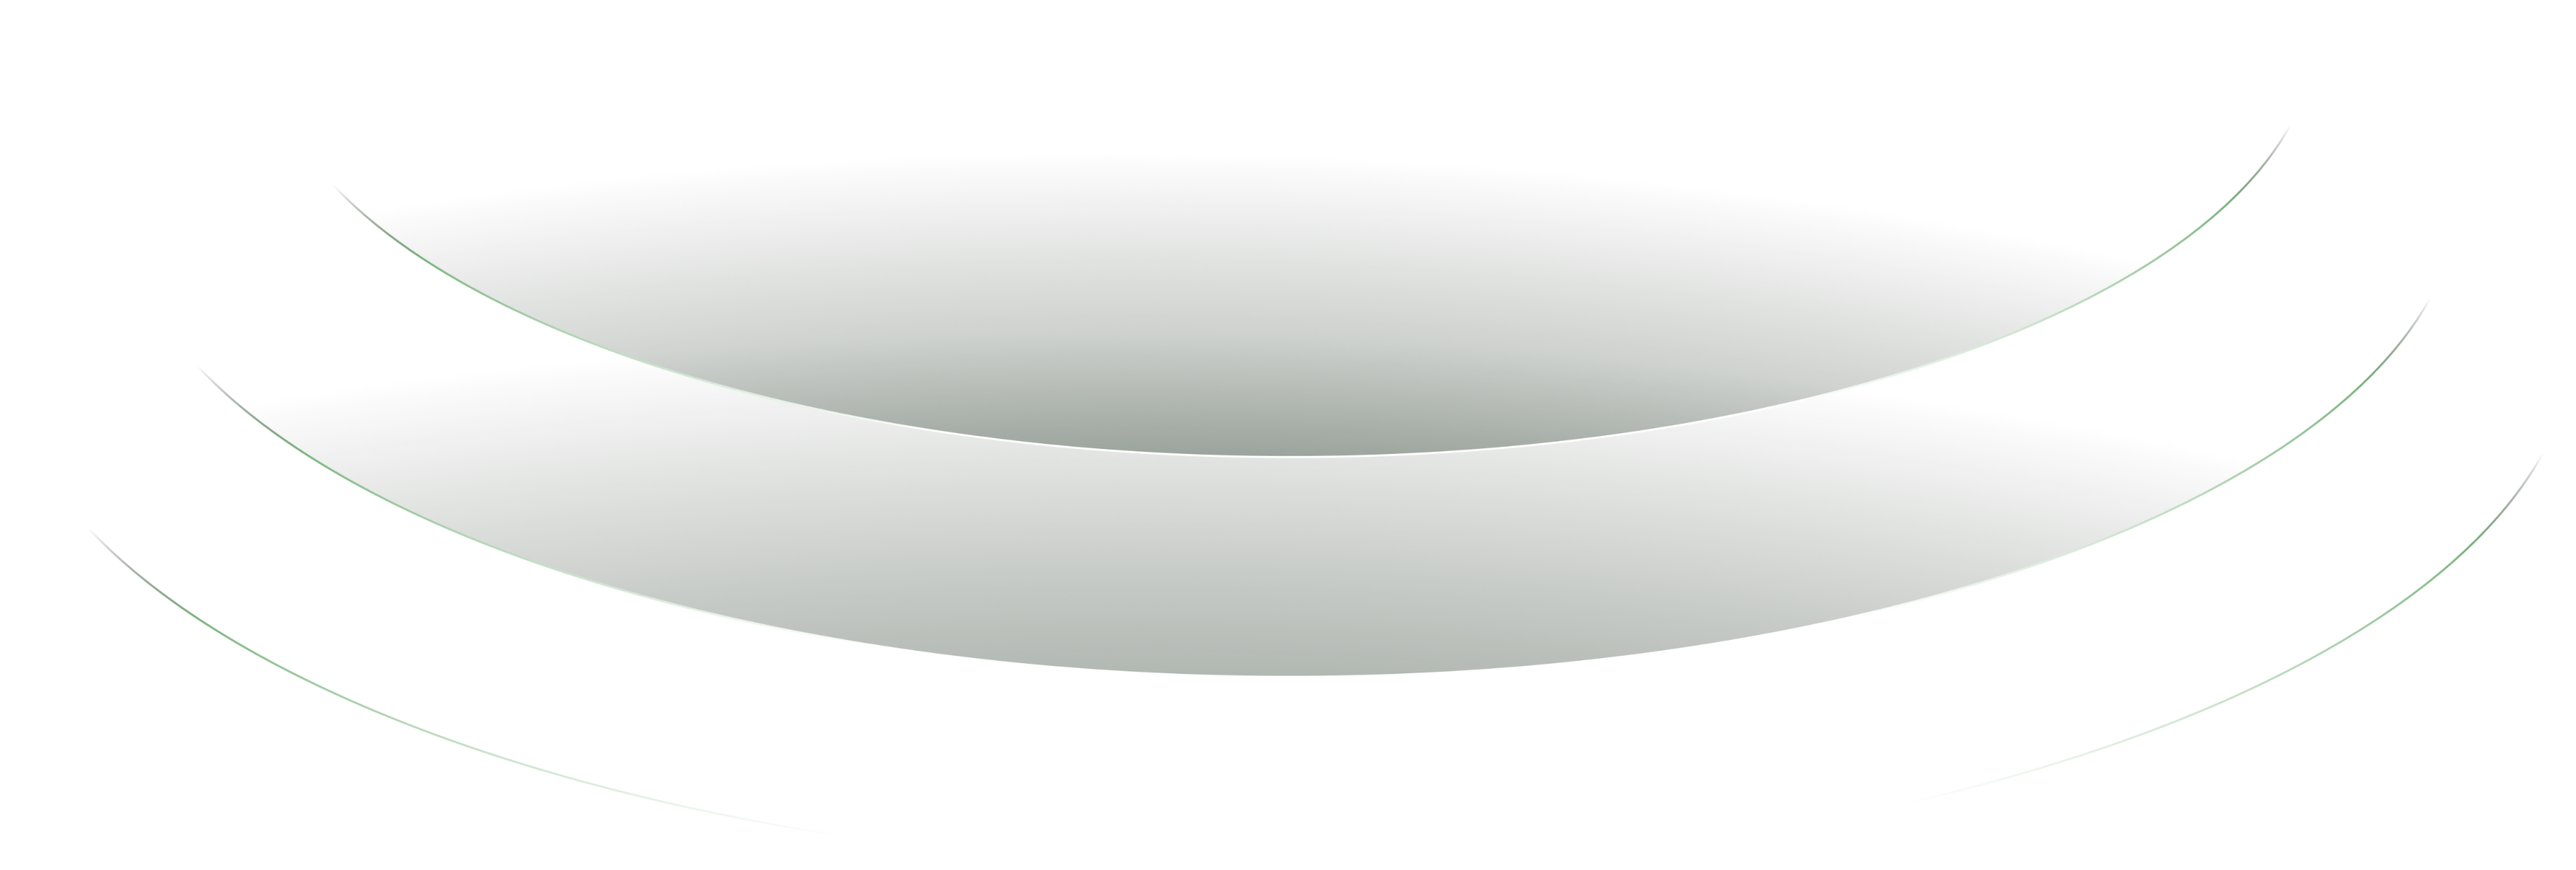
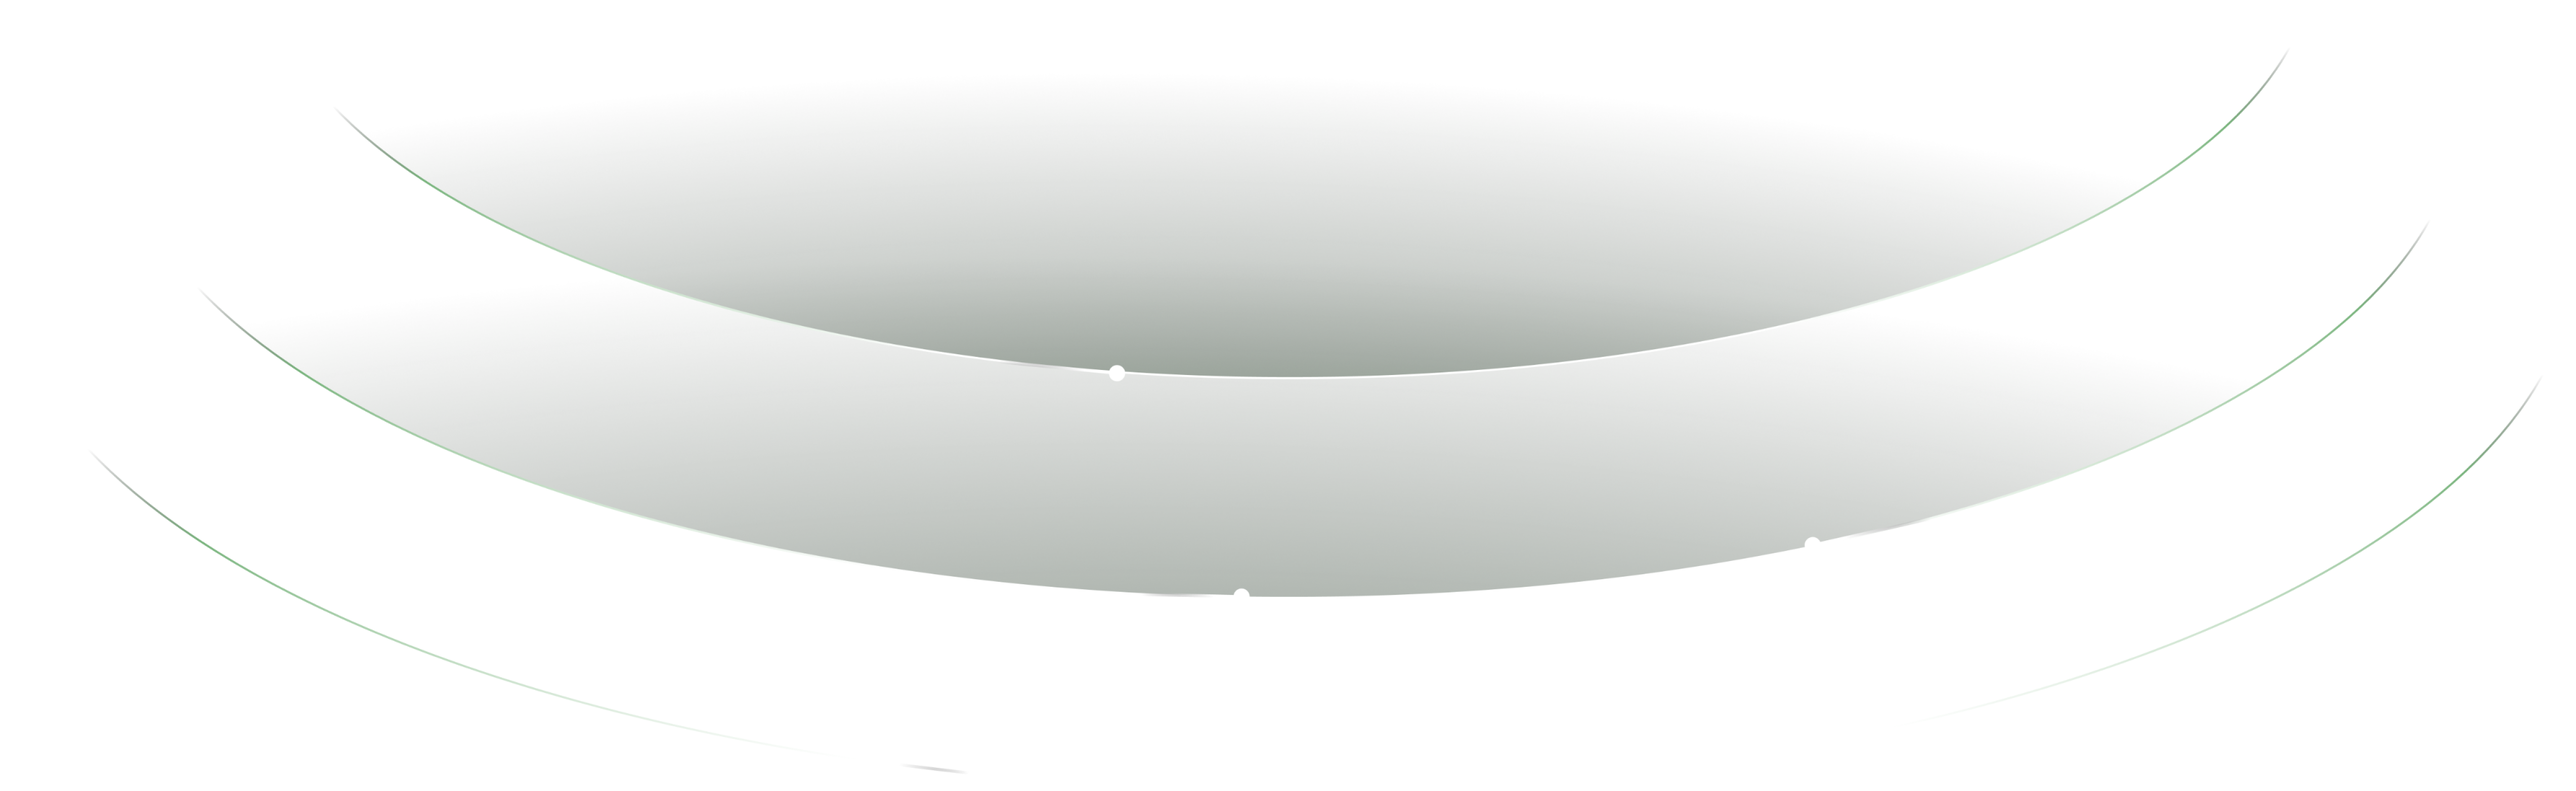
checking errors solved

diff --git a/src/components/Testimonial.jsx b/src/components/Testimonial.jsx
@@ -1,10 +1,10 @@
 import React from "react";
-import { DoubleComma } from "./common/Icons";
+import { DoubleComma, GreenCircle } from "./common/Icons";
 import Image from "next/image";
 
 const Testimonial = () => {
   return (
-    <div className="bg-[url('/assets/images/home-page/testimonial/background.png')] bg-no-repeat bg-cover lg:mt-[120px] sm:mt-24 mt-20">
+    <div className="bg-[url('/assets/images/home-page/testimonial/background.png')] bg-no-repeat bg-cover lg:mt-[120px] sm:mt-24 mt-20 relative">
       <div className="lg:pt-[130px] md:pt-[100px] pt-20">
         <div className="flex justify-center">
           <span className="text-center bg-silvertree text-white border-[1px] border-white px-[30px] py-[10px] sm:text-base text-sm font-semibold font-OpenSans leading-[150%] rounded-[51px]">
@@ -42,49 +42,49 @@ const Testimonial = () => {
             alt="images circles"
           />
           <Image
-            className="absolute animation_ping1 animate-ping md:w-[50px] w-[35px] md:h-[50px] h-[35px] lg:top-[26%] top-[21%] left-[24%]"
+            className="absolute animation_ping1 animate-ping md:w-[50px] w-[35px] md:h-[50px] h-[35px] lg:top-[22%] top-[21%] left-[24%]"
             width={50}
             height={50}
             src="/assets/images/home-page/testimonial/first_men.png"
             alt="first men image circles"
           />
           <Image
-            className="absolute animation_ping2 animate-ping md:w-[61px] w-[35px] md:h-[61px] h-[35px] lg:top-[28%] top-[21%] right-[26%]"
+            className="absolute animation_ping2 animate-ping md:w-[61px] w-[35px] md:h-[61px] h-[35px] lg:top-[24%] top-[21%] right-[26%]"
             width={61}
             height={61}
             src="/assets/images/home-page/testimonial/third_men.png"
             alt="first men image circles"
           />
           <Image
-            className="absolute animation_ping3 animate-ping md:w-[50px] w-[35px] md:h-[50px] h-[35px] lg:top-[35%] top-[29%] right-[10%]"
+            className="absolute animation_ping3 animate-ping md:w-[50px] w-[35px] md:h-[50px] h-[35px] lg:top-[31%] top-[29%] right-[10%]"
             width={50}
             height={50}
             src="/assets/images/home-page/testimonial/first_men.png"
             alt="first men image circles"
           />
           <Image
-            className="absolute animation_ping4 animate-ping md:w-[50px] w-[35px] md:h-[50px] h-[35px] lg:top-[53%] top-[43%] right-[44%]"
+            className="absolute animation_ping4 animate-ping md:w-[50px] w-[35px] md:h-[50px] h-[35px] lg:top-[49%] top-[43%] right-[44%]"
             width={50}
             height={50}
             src="/assets/images/home-page/testimonial/third_men.png"
             alt="first men image circles"
           />
           <Image
-            className="absolute animation_ping5 animate-ping md:w-[50px] w-[35px] md:h-[50px] h-[35px] lg:top-[34%] top-[28%] left-[10%]"
+            className="absolute animation_ping5 animate-ping md:w-[50px] w-[35px] md:h-[50px] h-[35px] lg:top-[30%] top-[28%] left-[10%]"
             width={50}
             height={50}
             src="/assets/images/home-page/testimonial/second_men.png"
             alt="first men image circles"
           />
           <Image
-            className="absolute animation_ping6 animate-ping md:w-[50px] w-[35px] md:h-[50px] h-[35px] lg:top-[57%] top-[48%] left-[15%]"
+            className="absolute animation_ping6 animate-ping md:w-[50px] w-[35px] md:h-[50px] h-[35px] lg:top-[53%] top-[48%] left-[15%]"
             width={50}
             height={50}
             src="/assets/images/home-page/testimonial/first_girl.png"
             alt="first men image circles"
           />
           <Image
-            className="absolute animation_ping7 animate-ping md:w-[50px] w-[35px] md:h-[50px] h-[35px] lg:top-[62%] top-[52%] right-[20%]"
+            className="absolute animation_ping7 animate-ping md:w-[50px] w-[35px] md:h-[50px] h-[35px] lg:top-[58%] top-[52%] right-[20%]"
             width={50}
             height={50}
             src="/assets/images/home-page/testimonial/first_girl.png"
@@ -101,6 +101,9 @@ const Testimonial = () => {
           />
         </div>
       </div>
+      <span className="absolute right-[47px] top-[100px] lg:block hidden">
+        <GreenCircle />
+      </span>
     </div>
   );
 };

diff --git a/src/components/OurFeature.jsx b/src/components/OurFeature.jsx
@@ -1,7 +1,7 @@
 "use client";
 import Image from "next/image";
 import React, { useState } from "react";
-import { GreenRightIcon } from "./common/Icons";
+import { GreenCircle, GreenRightIcon } from "./common/Icons";
 
 const OurFeature = () => {
   const [activeTab, setActiveTab] = useState(3);
@@ -60,7 +60,7 @@ const OurFeature = () => {
               </div>
             ))}
           </div>
-          <div className="pt-10 flex lg:flex-row flex-col lg:gap-0 gap-10 justify-between items-center pb-32">
+          <div className="pt-10 flex lg:flex-row flex-col lg:gap-0 gap-10 justify-between items-center pb-32 lg:mb-7">
             <div className="lg:w-3/5">
               <p className="font-Roboto font-bold md:text-7xl sm:text-5xl text-3xl leading-[155%] text-black">
                 {tabContent[activeTab].title}
@@ -129,12 +129,15 @@ const OurFeature = () => {
           alt="left side lines image"
         />
         <Image
-          className="absolute left-[6.5%] w-[79px] h-[169px] top-[95px] lg:block hidden rotate-[17.17deg]"
-          width={79}
-          height={169}
+          className="absolute left-[50.5%] w-[41px] h-[89px] top-[595px] lg:block hidden rotate-[7.17deg]"
+          width={41}
+          height={89}
           src="/assets/images/home-page/how-it-works/left_side_lines.png"
           alt="left side lines image"
         />
+        <span className="absolute left-[6%] top-[790px] lg:block hidden">
+          <GreenCircle />
+        </span>
       </div>
     </>
   );

diff --git a/src/components/Transforming.jsx b/src/components/Transforming.jsx
@@ -1,9 +1,10 @@
 import React from "react";
 import CommonSection from "./common/CommonSection";
+import Image from "next/image";
 
 const Transforming = () => {
   return (
-    <div>
+    <div className="relative">
       <CommonSection
         title="Unlock Your Best Self"
         decoration="Don’t put off what could be your brightest future. Your unique DNA holds the blueprint for ultimate health and happiness"
@@ -11,6 +12,20 @@ const Transforming = () => {
         bar="button"
         imgSrc="/assets/images/home-page/transforming/unlock.png"
         shortDecoration="Act fast! Exclusive slots for our personalized DNA analysis are filling up. Claim yours and step into a life where wellness is woven into your genes"
+      />
+      <Image
+        className="absolute left-[6.5%] w-[43px] h-[92px] top-[225px] lg:block hidden rotate-[7.17deg]"
+        width={43}
+        height={92}
+        src="/assets/images/home-page/how-it-works/left_side_lines.png"
+        alt="left side lines image"
+      />
+      <Image
+        className="absolute right-[20.5%] w-[44px] h-[96px] bottom-[-145px] lg:block hidden "
+        width={44}
+        height={96}
+        src="/assets/images/home-page/how-it-works/left_side_lines.png"
+        alt="left side lines image"
       />
     </div>
   );
